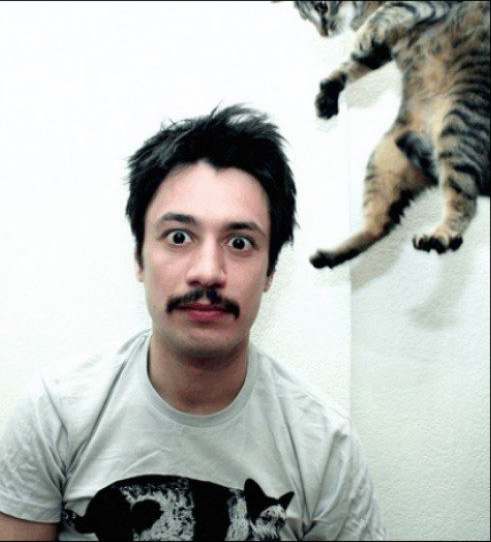
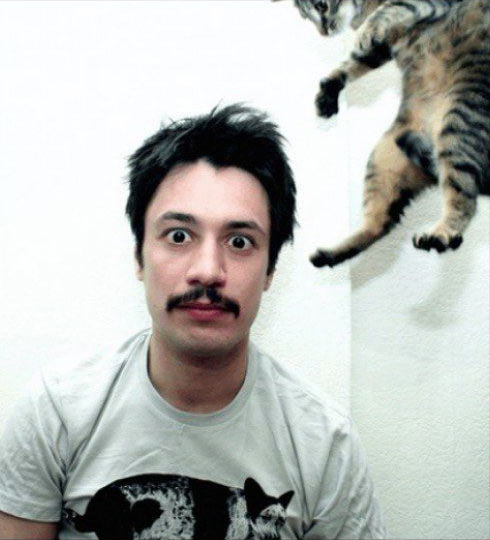
fixing

diff --git a/public/www/javascripts/meme.js b/public/www/javascripts/meme.js
@@ -345,7 +345,7 @@ var memes = [
         "desc": "Sasha and the cats"
     },{
         "name": "boss",
-        "img" : "boss.jpg",
+        "img" : "boss.png",
         "desc": "Like a boss"
     },{
         "name": "no1",
